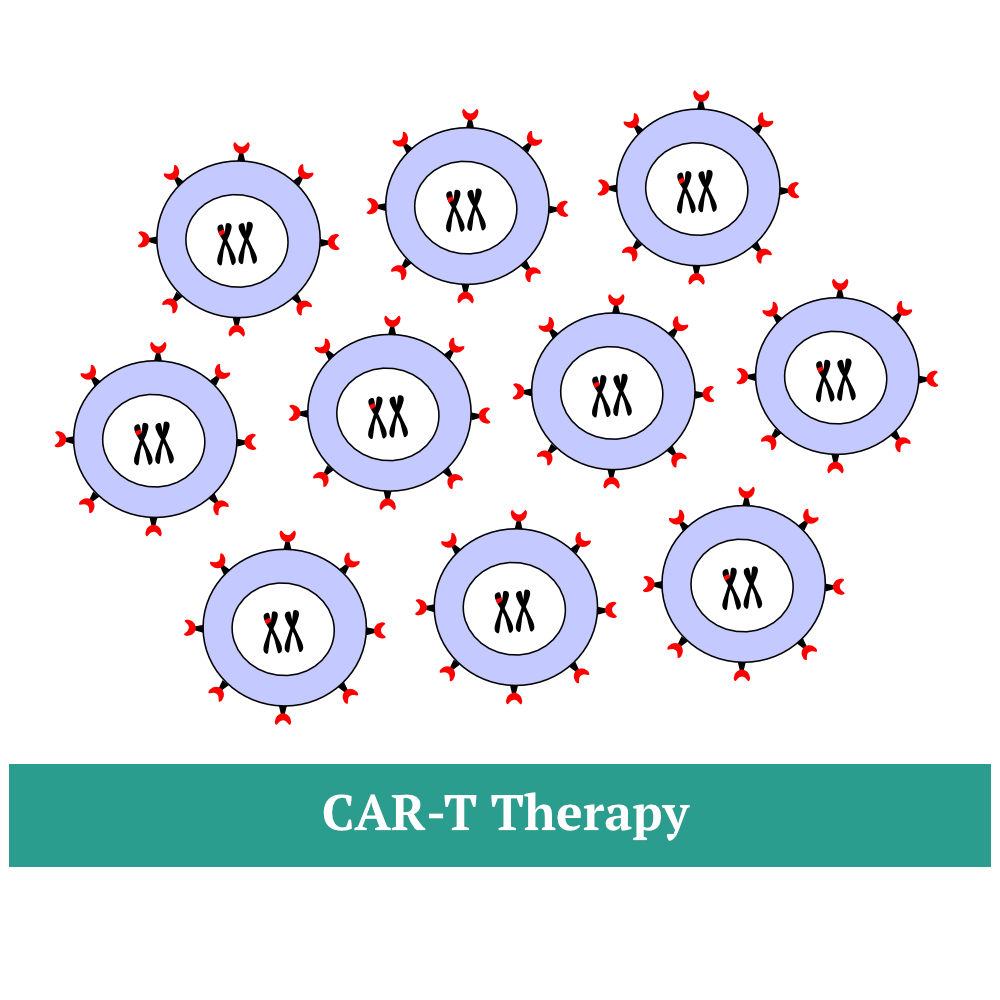
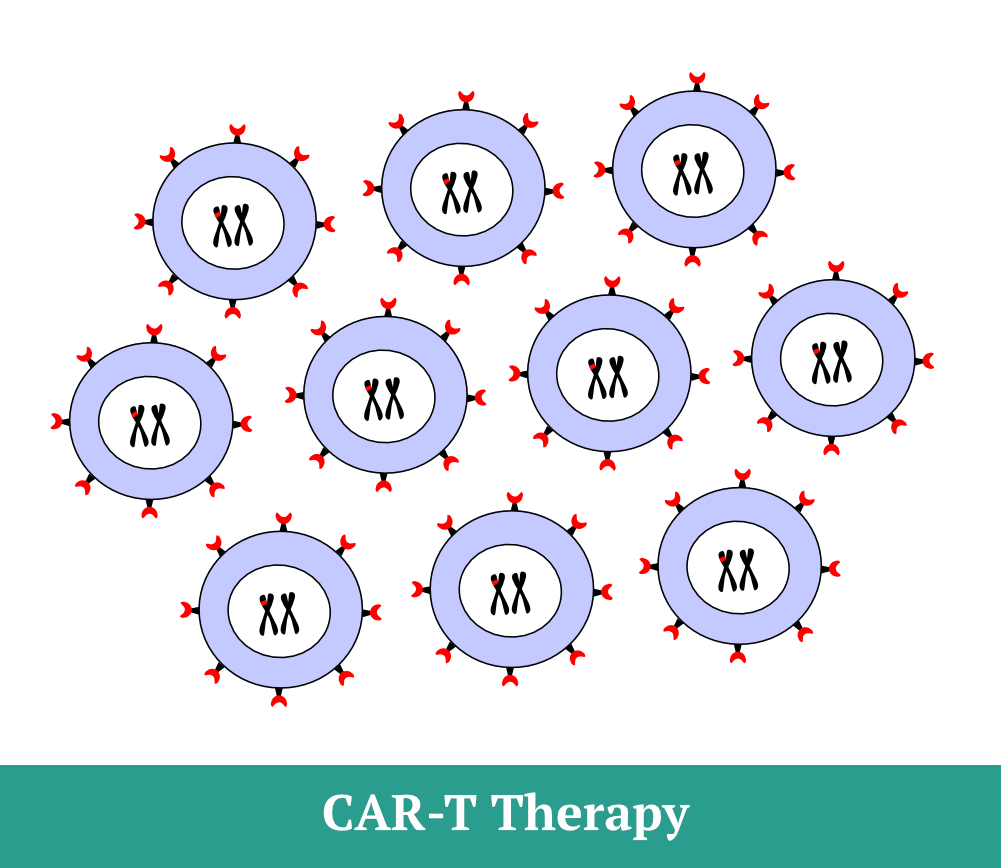
gray boxes (#28)

diff --git a/styles.css b/styles.css
@@ -116,12 +116,6 @@ main a.main-link:hover {
   text-decoration: none;  
 }
 
-/* Sombra grisácea al clicar en los elementos del homepage, si al final quiero ponerlo */
-/* .banner:hover img {
-  transform: scale(1.02);
-  box-shadow: 0 10px 10px rgba(0,0,0,0.25);
-} */
-
 .quarto-secondary-nav {
   padding-left: 0 !important;
   margin-left: 9px !important;
@@ -270,12 +264,17 @@ main a.main-link:hover {
 }
 
 /* Starting grid */
-#homepage img {
+/* #homepage img {
   width: 100%;
   aspect-ratio: 1 / 1;
   object-fit: contain;
-  column-gap: 1px;
-} 
+}  */
+
+/* Sombra grisácea al clicar en los elementos del homepage, si al final quiero ponerlo */
+#homepage img:hover {
+  transform: scale(1.02);
+  box-shadow: 0 10px 10px rgba(0,0,0,0.25);
+}
 
 /* Posibilidad de caja gris para vocabulario la sección: blog posts */
 /* .glossary-box {
